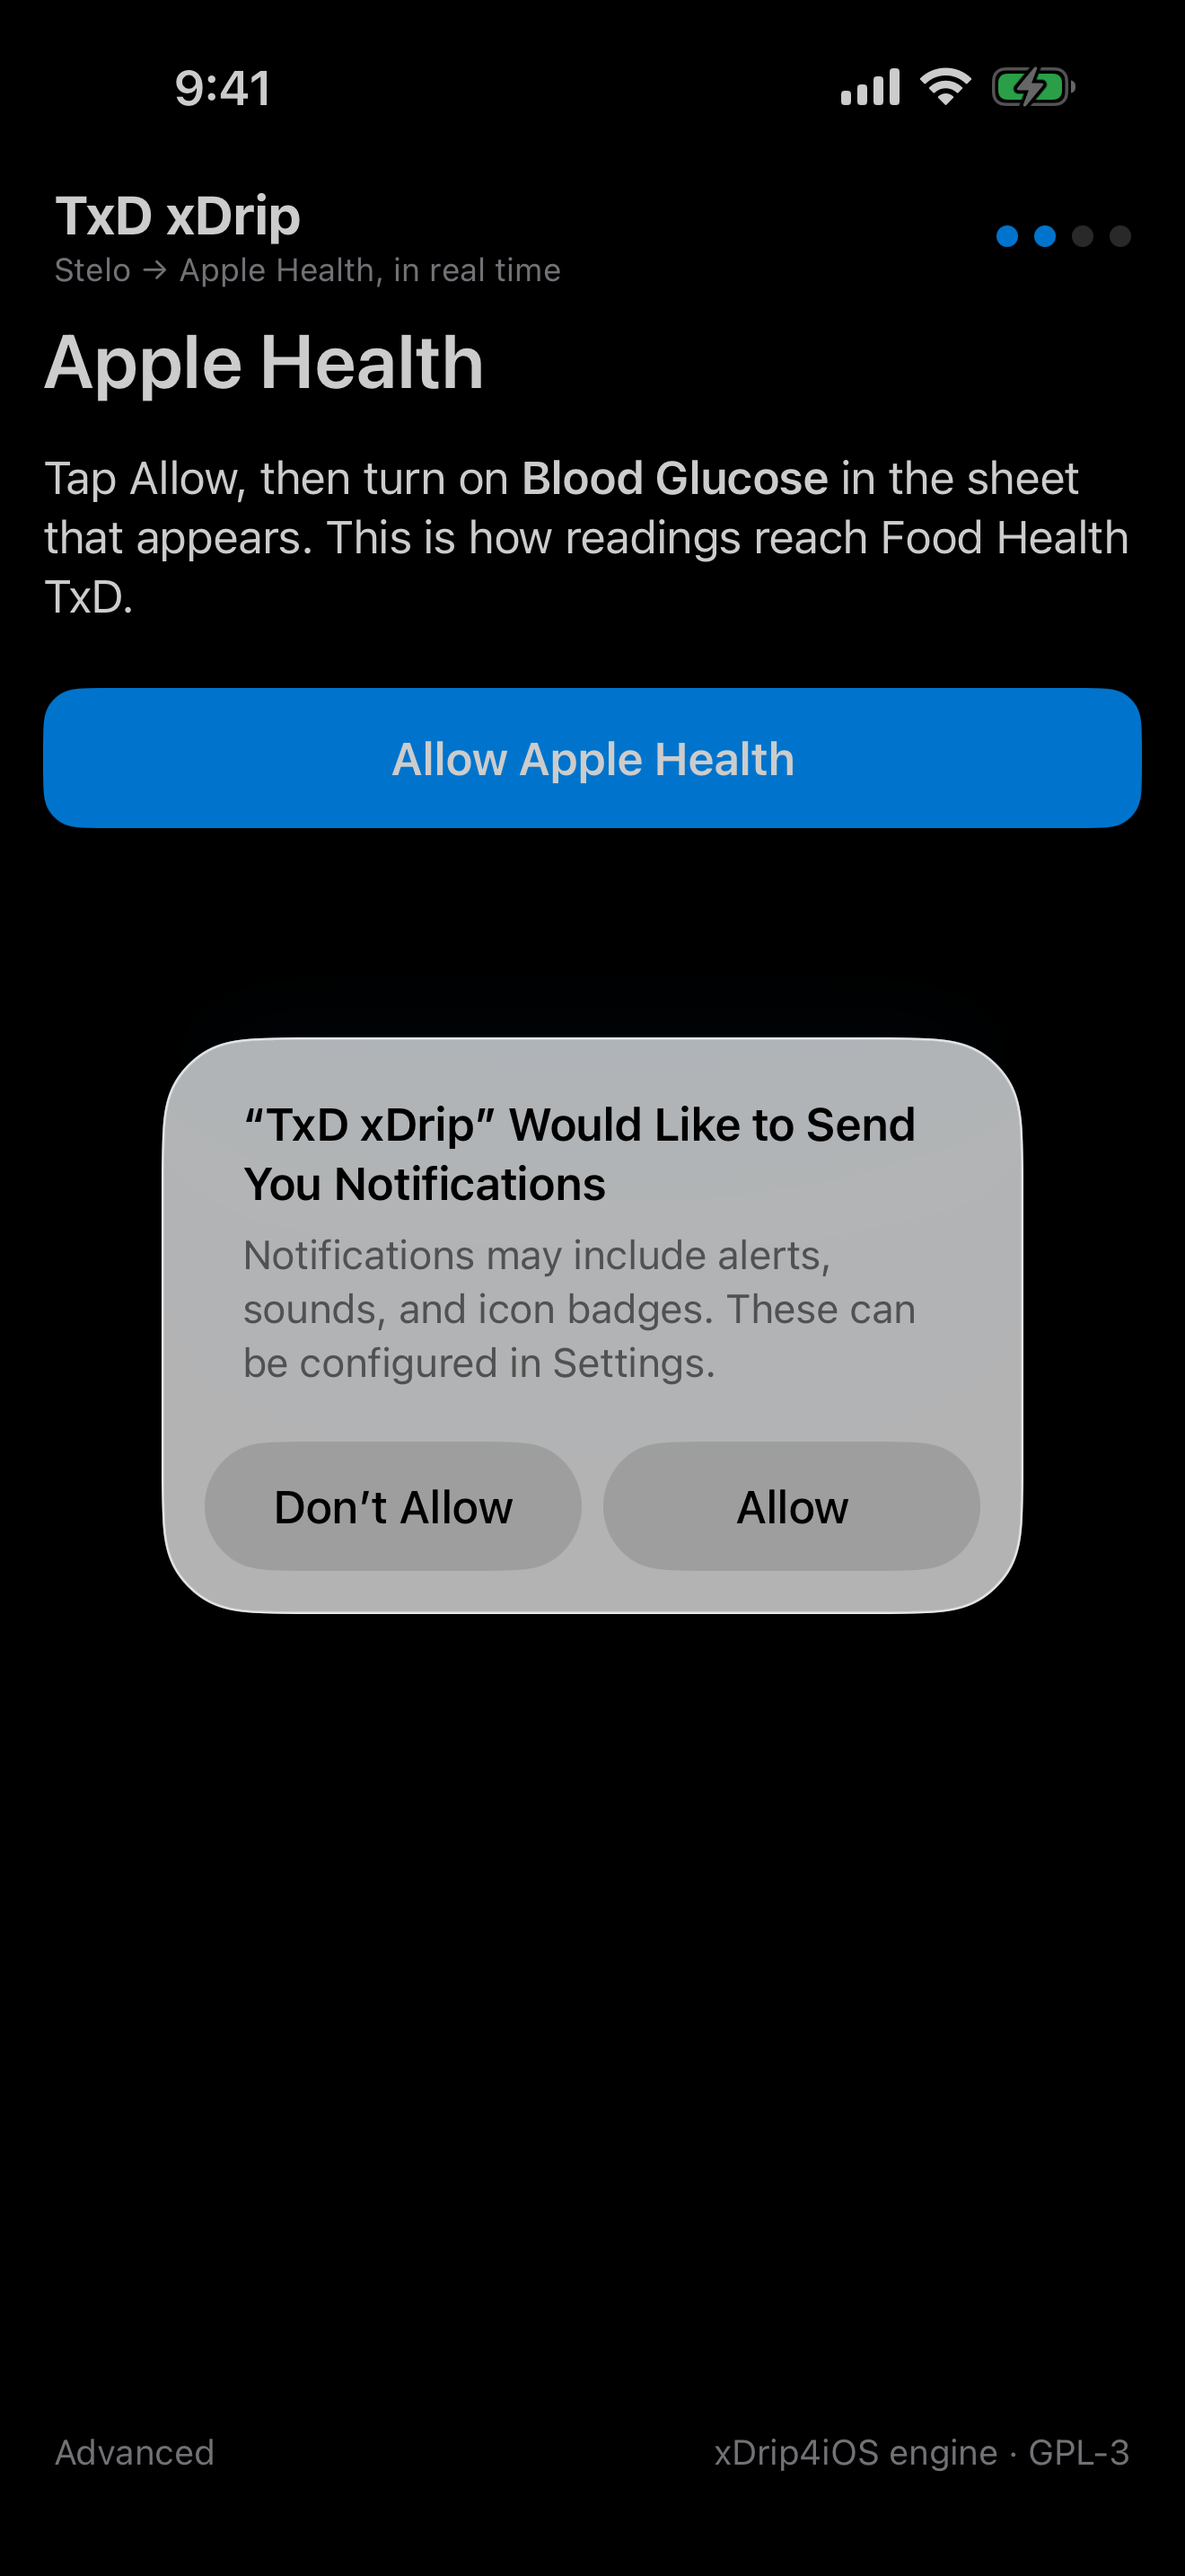
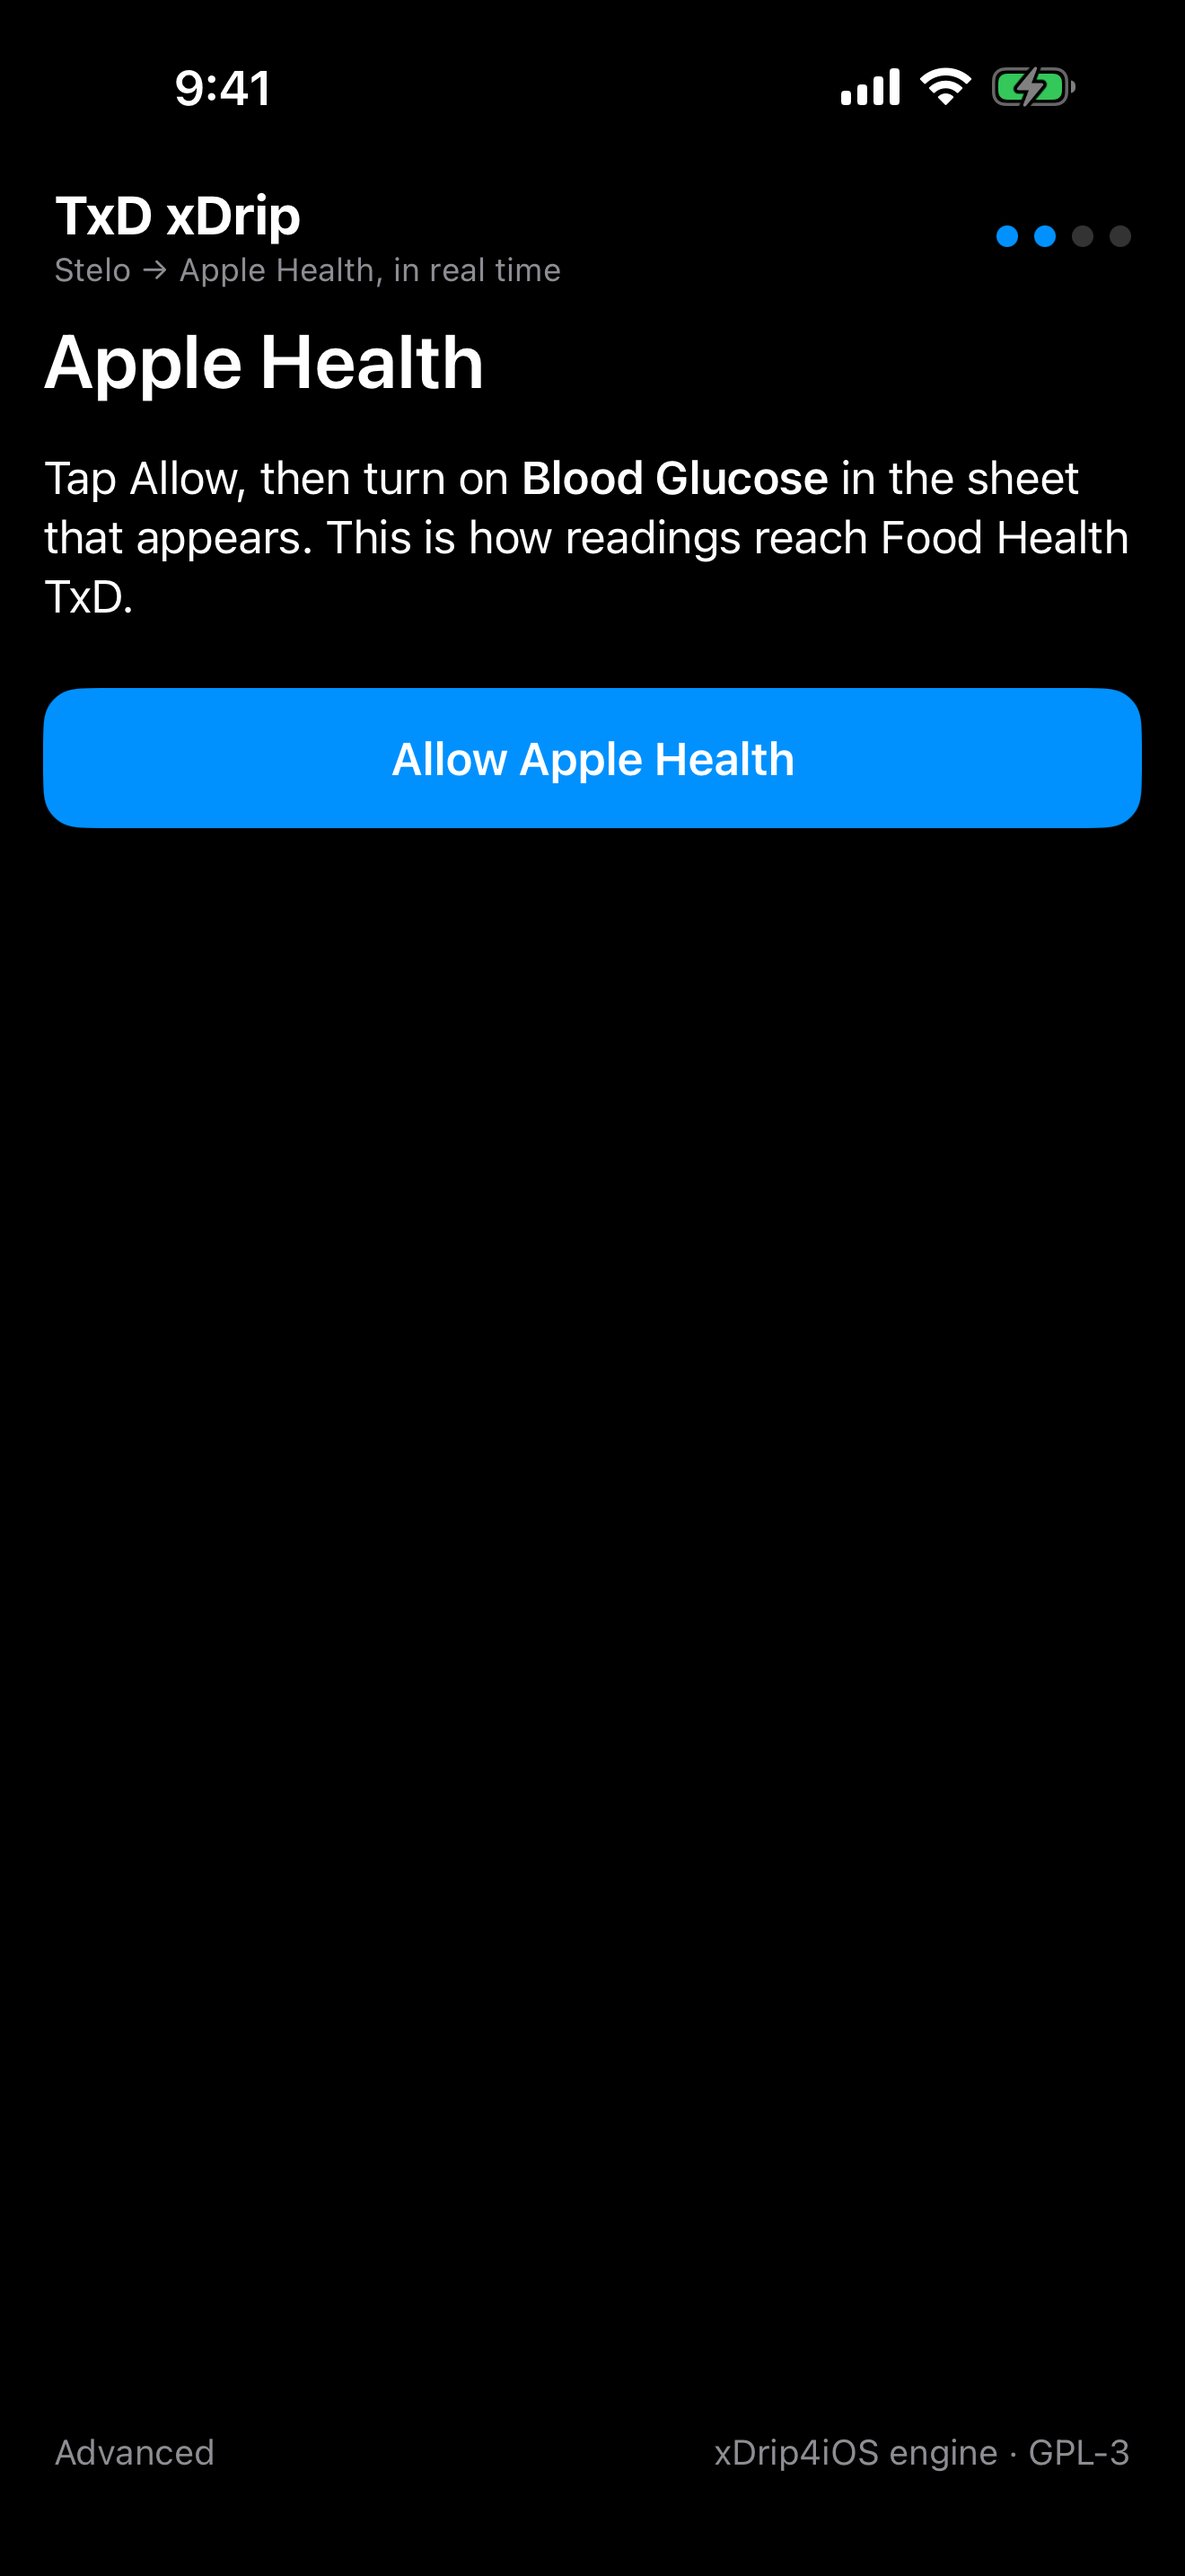
Clean screenshots; demo mode skips badge calls
Claude-Session: https://claude.ai/code/session_01JC88bELWL28qyv9jxMJQWS

diff --git a/xDrip/Managers/Application/RootApplicationCoordinator.swift b/xDrip/Managers/Application/RootApplicationCoordinator.swift
@@ -1345,7 +1345,7 @@ import AppIntents
             // set the app badge to 0. This will cause removal of the badge counter, but also removal of any existing notification on the screen
             if !UserDefaults.standard.showReadingInAppBadge || (!UserDefaults.standard.isMaster && UserDefaults.standard.followerBackgroundKeepAliveType == .disabled) {
                 // applicationIconBadgeNumber has been deprecated for iOS17 but as we currently have a minimum deployment target of iOS15, let's add a conditional check
-                UNUserNotificationCenter.current().setBadgeCount(0)
+                if !TxDBridgeModel.isDemo { UNUserNotificationCenter.current().setBadgeCount(0) }
             }
             
             // make sure that any pending (i.e. already scheduled in the future) missed reading notifications are removed
@@ -1924,6 +1924,8 @@ import AppIntents
     /// - parameters:
     ///     - if overrideShowReadingInNotification then badge counter will be set (if enabled off course) with function UIApplication.shared.applicationIconBadgeNumber. To be used if badge counter is  to be set eg when UserDefaults.standard.showReadingInAppBadge is changed
     private func createBgReadingNotificationAndSetAppBadge(overrideShowReadingInNotification: Bool) {
+        // TxD xDrip demo mode: badge/notification calls trigger the system permission prompt.
+        if TxDBridgeModel.isDemo { return }
         // bgReadingsAccessor should not be nil at all, but let's not create a fatal error for that, there's already enough checks for it
         guard let bgReadingsAccessor = bgReadingsAccessor else { return }
         
